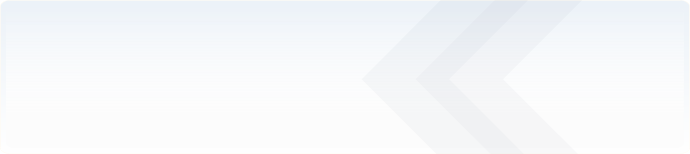
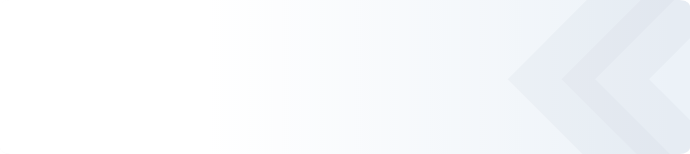
feat(changeLeagueBg) 多個地方調整
問題：

1.聯盟圖片大小、背景圖片更換

2.投注頁球隊圖片大小、隊名間距調整

3.下單紀錄詳情的下單選項顏色、文字調整

調整：

1.調整完成

Changed region(s): [[0.8522, 0.5714, 1.0, 1.0]]

diff --git a/packages/fbd-frontend/src/views/betting/index.vue b/packages/fbd-frontend/src/views/betting/index.vue
@@ -47,7 +47,7 @@
         <!-- name -->
         <div class="betting-team-row mb-1">
           <!-- H -->
-          <div class="betting-team-container px-betting-team-container betting-team-text-container">
+          <div class="betting-team-container px-betting-team-container betting-team-text-container ml-2 mr-8">
             <div
               class="betting-team-name betting-info-text betting-info-text-em"
               :class="{ 'betting-info-text-em-xs': !isChinese }"
@@ -56,7 +56,7 @@
             </div>
           </div>
           <!-- A -->
-          <div class="betting-team-container px-betting-team-container betting-team-text-container">
+          <div class="betting-team-container px-betting-team-container betting-team-text-container mr-2 ml-8">
             <div
               class="betting-team-name betting-info-text betting-info-text-em"
               :class="{ 'betting-info-text-em-xs': !isChinese }"
@@ -977,7 +977,7 @@ export default {
   }
 
   &-team-container {
-    @apply mx-3;
+    /* @apply mx-6; */
 
     width: 148px;
     max-width: 148px;
@@ -1002,8 +1002,8 @@ export default {
   &-team-logo {
     @apply mt-1 mb-2 mx-auto;
 
-    width: 24px;
-    height: 24px;
+    width: 32px;
+    height: 32px;
 
     img {
       @apply w-full h-full object-contain object-center;

diff --git a/packages/fbd-frontend/src/views/betRecord/index.vue b/packages/fbd-frontend/src/views/betRecord/index.vue
@@ -113,7 +113,7 @@
                 <div class="betrecord-text betrecord-text-sm">
                   {{ $t('views_betRecord_item_label2') }}
                 </div>
-                <div class="betrecord-text betrecord-text-lg betrecord-item-option">
+                <div class="betrecord-text betrecord-text-lg betrecord-item-option text-primary">
                   <span>
                     {{ renderGameInfo(item, 'playTypeSName') }}
                   </span>
@@ -641,12 +641,8 @@ export default {
     @apply flex items-center;
 
     span + span {
-      @apply ml-1;
+      @apply ml-2;
     }
-  }
-
-  &-item-option-em {
-    @apply text-primary;
   }
 
   &-text {

diff --git a/packages/fbd-frontend/src/views/match/index.vue b/packages/fbd-frontend/src/views/match/index.vue
@@ -95,7 +95,7 @@
           <img
             :src="item.logoPath? `${s3Base}/${item.logoPath}`: $requireSafe('icon/default-league.svg')"
             alt=""
-            class="mr-2 w-8 h-8 object-contain"
+            class="league-img mr-2 object-contain"
           >
           <div class="league-text-content flex-1 text-sm">
             <div class="league-title mb-2 text-primary">
@@ -417,5 +417,10 @@ export default {
 .all-league-list {
   display: -webkit-box;
   display: -ms-flexbox;
+}
+
+.league-img {
+  width: 32px;
+  height: 32px;
 }
 </style>

diff --git a/packages/fbd-frontend/src/locales/lang/zh_cn.js b/packages/fbd-frontend/src/locales/lang/zh_cn.js
@@ -136,7 +136,7 @@ const lang = {
   views_betRecord_item_label4: '预估获利',
   views_betRecord_item_label5: '状态',
   views_betRecord_item_label6: '赛事名',
-  views_betRecord_item_label7: '项目名称',
+  views_betRecord_item_label7: '项目',
   views_betRecord_item_action1: '展开详情',
   views_betRecord_item_action2: '收回详情',
   views_bankcard_nextStep2: '确认',
